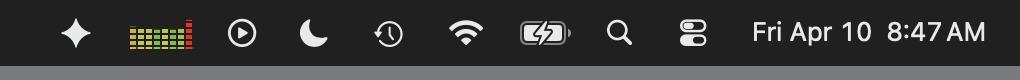
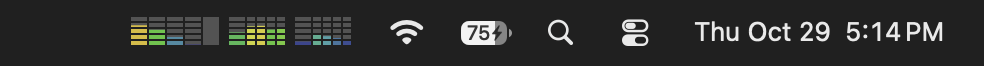
Retake the README screenshots and describe the menu's newer features

diff --git a/README.md b/README.md
@@ -17,12 +17,15 @@ A lightweight CPU monitoring tool designed specifically for the macOS menu bar. 
 `cpuTopBars` provides real-time insights into your system's CPU usage with a focus on aesthetics and customization.
 
 * **Real-time Menu Bar Visualization:** View your CPU activity at a glance with a live-updating graph right in your macOS menu bar, beside small bars for disk, memory, overall CPU and GPU use, a bar that shows when the Neural Engine is powered on, and bars for the efficiency cores' and the performance cores' use, each of these two heading its own cores' bars when the graph shows each core and the Mac lists its efficiency cores first (switchable in Settings).
-* **Top Process Tracking:** Quickly identify which of your processes are consuming the most CPU with a ranked list of "Your Top Processes by CPU"; processes of other users, among them macOS's system daemons and WindowServer, are counted in one row below it.
+* **Top Process Tracking:** Quickly identify which of your processes are consuming the most CPU with a ranked list of "Your Top Processes by CPU", each with its CPU share and its memory (physical footprint, in GB); processes of other users, among them macOS's system daemons and WindowServer, are counted in one row below it.
 * **System readings:** when the menu opens, a panel beside it shows uptime, then startup-volume, memory and overall CPU usage as percentages with their sizes, the disk and memory with their free and used space, memory with its swap in use and CPU with its efficiency and performance cores' use, GPU use and whether the Neural Engine is powered on, all read on the Mac; nothing is sent over the network.
+* **Hover labels:** rest the pointer on a bar for a second to see its value below the menu bar; on the core bars it lists each core's load.
+* **Process inspector:** click a process in the menu to open a window with its man page, where it has one, and its arguments and environment.
 * **Freeze:** pause the process list to examine it while the CPU graph keeps running; while frozen, rest on a ↳ row to see what it is a helper of.
 * **Launch at login:** turn it on in Settings to open cpuTopBars when you log in.
 * **How to Read the Menu Bar:** a window, opened from the menu, that explains the bars and their colours, with drawn examples.
-* **Customizable:**
+* **Support Team Fox:** a menu row that opens halfmarble's Team Fox fundraising page in your browser.
+* **Customizable:** Settings opens with a Demo group that previews the menu-bar graph live, on a sine wave and on a flat wave.
     * **Refresh Rates:** Choose between 2, 5, or 10 updates per second for ultra-responsive feedback (5 by default).
     * **Top Processes:** Show 3, 5, 10 or 15 processes in the menu (5 by default).
 * **System Integration:** One-click access to the macOS native **Activity Monitor**.
@@ -37,7 +40,7 @@ A Mac App Store release is coming. Until then, build it from source:
 
 cpuTopBars requires macOS 27 or later.
 
-cpuTopBars was called upMonitor; release 1.0 on GitHub is that old app.
+cpuTopBars was called upMonitor; release 1.0 on GitHub is that old app. A copy you built from source under the old name keeps its own settings and its own login item, which still opens that copy at login: turn Launch at login off in the old copy, or delete it, then set your settings and Launch at login again in cpuTopBars, which starts with the default settings.
 
 cpuTopBars runs in the App Sandbox. The sandbox gives an app no CPU figures for other users' processes (WindowServer, kernel_task, system daemons), so the menu lists your own processes and counts the others in one row.
 
